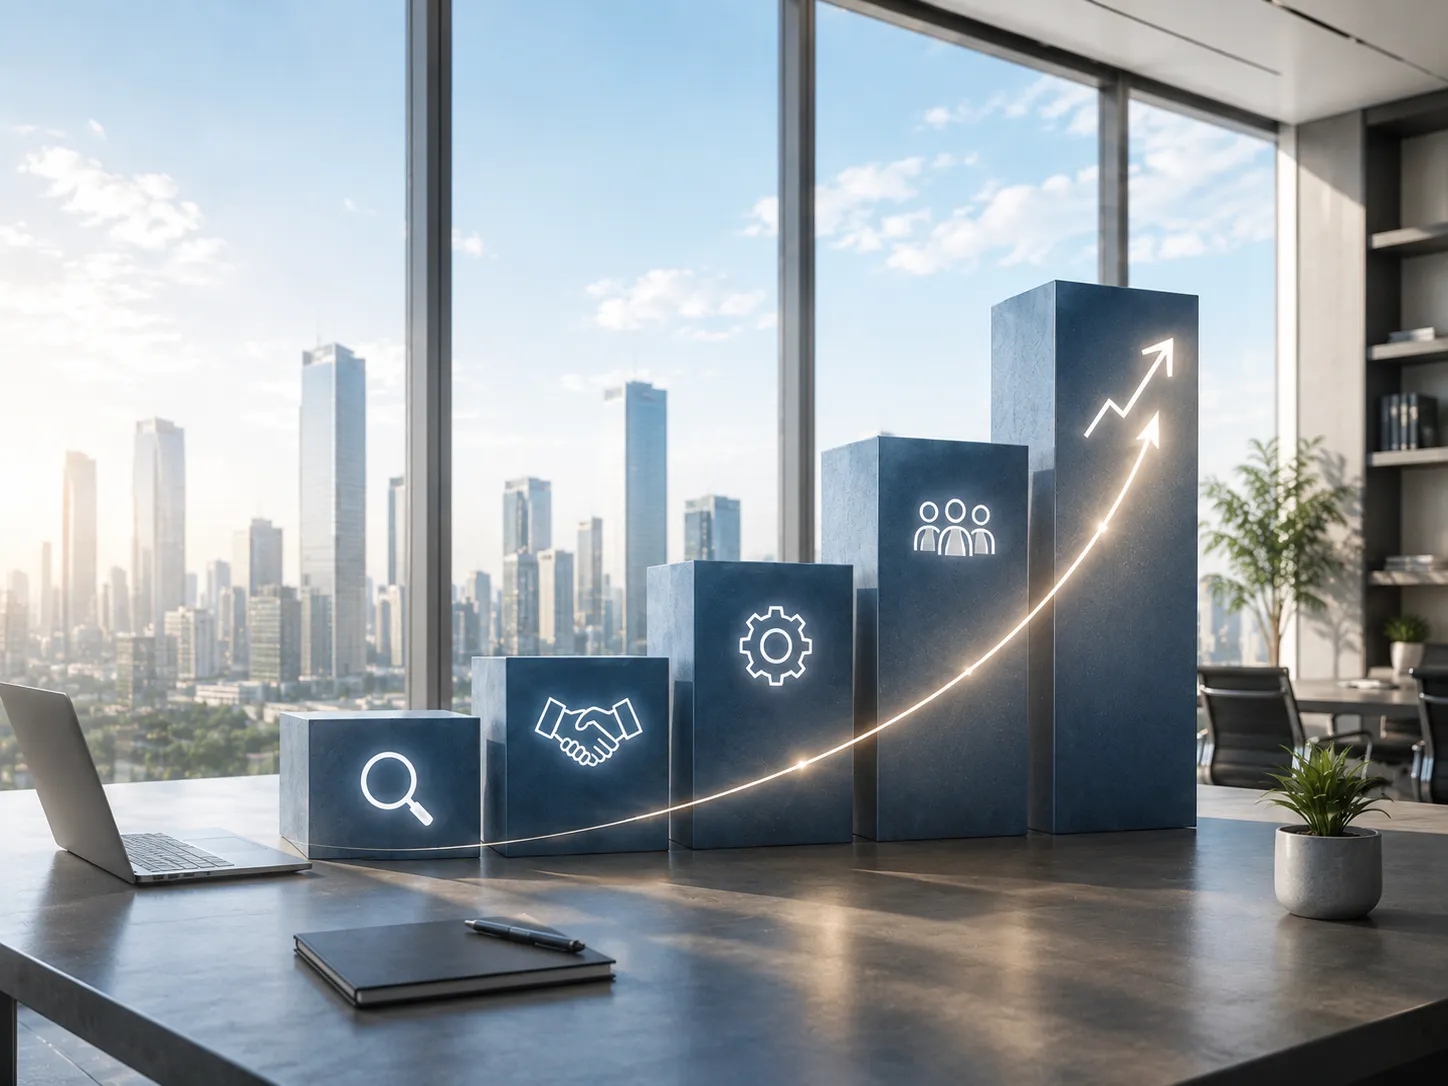
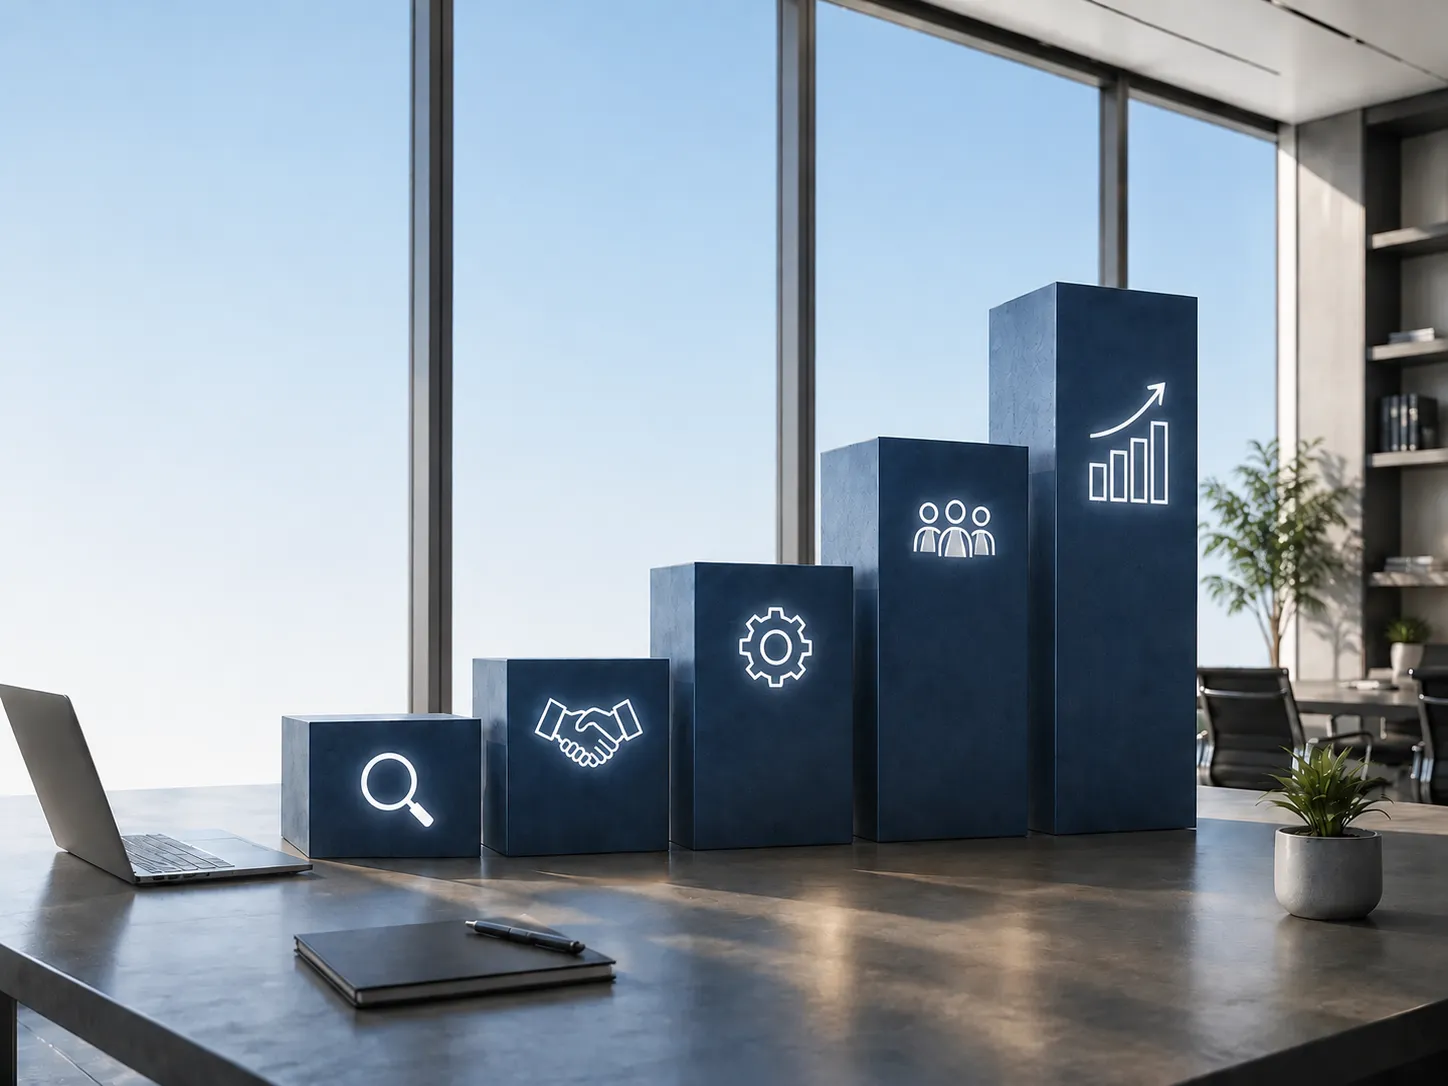
Updated website

diff --git a/index.html b/index.html
@@ -46,10 +46,9 @@
 
     <div class="hero-content">
       <!-- <span class="eyebrow" style="display: inline-block; font-size: .72rem; font-weight: 700; letter-spacing: .22em; text-transform: uppercase; color: var(--accent); margin-bottom: 1rem;">Global Strategic Advisory</span> -->
-      <h1>Where <em>Strategy</em> Meets <br> Execution</h1>
+      <h1>Where <em>Strategy</em> Drives <br> Sustainable Growth</h1>
       <p>
-        Helping organizations unlock new opportunities through strategic advisory,
-        market expansion, strategic partnerships, and successful execution.
+        Helping organizations unlock new opportunities through strategic advisory, market expansion, strategic partnerships, execution support, and growth services.
       </p>
 
       <div class="hero-ctas">
@@ -278,7 +277,7 @@
       <a href="index.html" class="footer-logo">
         <img src="assets/images/byc-logo.webp" alt="BYC Consulting" class="footer-logo-img">
       </a>
-      <p class="footer-minimal-desc">A global strategic advisory and market expansion firm helping organizations move from strategy to sustainable growth.</p>
+      <p class="footer-minimal-desc">A global strategic advisory and growth firm.</p>
 
       <div class="footer-social-row">
         <a href="https://www.linkedin.com/company/bycconsultingpvtltd" target="_blank" rel="noopener noreferrer" class="social-icon-btn" aria-label="LinkedIn">

diff --git a/contact.html b/contact.html
@@ -16,7 +16,7 @@
   <header class="header" id="header">
     <div class="container nav-container">
       <a href="index.html" class="logo">
-        <img src="assets/images/byc-logo.webp alt="BYC Consulting" class="logo-img">
+        <img src="assets/images/byc-logo.webp" alt="BYC Consulting" class="logo-img">
       </a>
       <nav class="nav-menu" id="nav-menu">
         <a href="index.html" class="nav-link">Home</a>
@@ -142,7 +142,7 @@
       <a href="index.html" class="footer-logo">
         <img src="assets/images/byc-logo.webp" alt="BYC Consulting" class="footer-logo-img">
       </a>
-      <p class="footer-minimal-desc">A global strategic advisory and market expansion firm helping organizations move from strategy to sustainable growth.</p>
+      <p class="footer-minimal-desc">A global strategic advisory and growth firm.</p>
       
       <div class="footer-social-row">
         <a href="https://www.linkedin.com/company/bycconsultingpvtltd" target="_blank" rel="noopener noreferrer" class="social-icon-btn" aria-label="LinkedIn">

diff --git a/about.html b/about.html
@@ -171,7 +171,7 @@
       <a href="index.html" class="footer-logo">
         <img src="assets/images/byc-logo.webp" alt="BYC Consulting" class="footer-logo-img">
       </a>
-      <p class="footer-minimal-desc">A global strategic advisory and market expansion firm helping organizations move from strategy to sustainable growth.</p>
+      <p class="footer-minimal-desc">A global strategic advisory and growth firm.</p>
       
       <div class="footer-social-row">
         <a href="https://www.linkedin.com/company/bycconsultingpvtltd" target="_blank" rel="noopener noreferrer" class="social-icon-btn" aria-label="LinkedIn">

diff --git a/expertise.html b/expertise.html
@@ -221,7 +221,7 @@
       <a href="index.html" class="footer-logo">
         <img src="assets/images/byc-logo.webp" alt="BYC Consulting" class="footer-logo-img">
       </a>
-      <p class="footer-minimal-desc">A global strategic advisory and market expansion firm helping organizations move from strategy to sustainable growth.</p>
+      <p class="footer-minimal-desc">A global strategic advisory and growth firm.</p>
       
       <div class="footer-social-row">
         <a href="https://www.linkedin.com/company/bycconsultingpvtltd" target="_blank" rel="noopener noreferrer" class="social-icon-btn" aria-label="LinkedIn">

diff --git a/why-byc.html b/why-byc.html
@@ -186,7 +186,7 @@
       <a href="index.html" class="footer-logo">
         <img src="assets/images/byc-logo.webp" alt="BYC Consulting" class="footer-logo-img">
       </a>
-      <p class="footer-minimal-desc">A global strategic advisory and market expansion firm helping organizations move from strategy to sustainable growth.</p>
+      <p class="footer-minimal-desc">A global strategic advisory and growth firm.</p>
       
       <div class="footer-social-row">
         <a href="https://www.linkedin.com/company/bycconsultingpvtltd" target="_blank" rel="noopener noreferrer" class="social-icon-btn" aria-label="LinkedIn">
